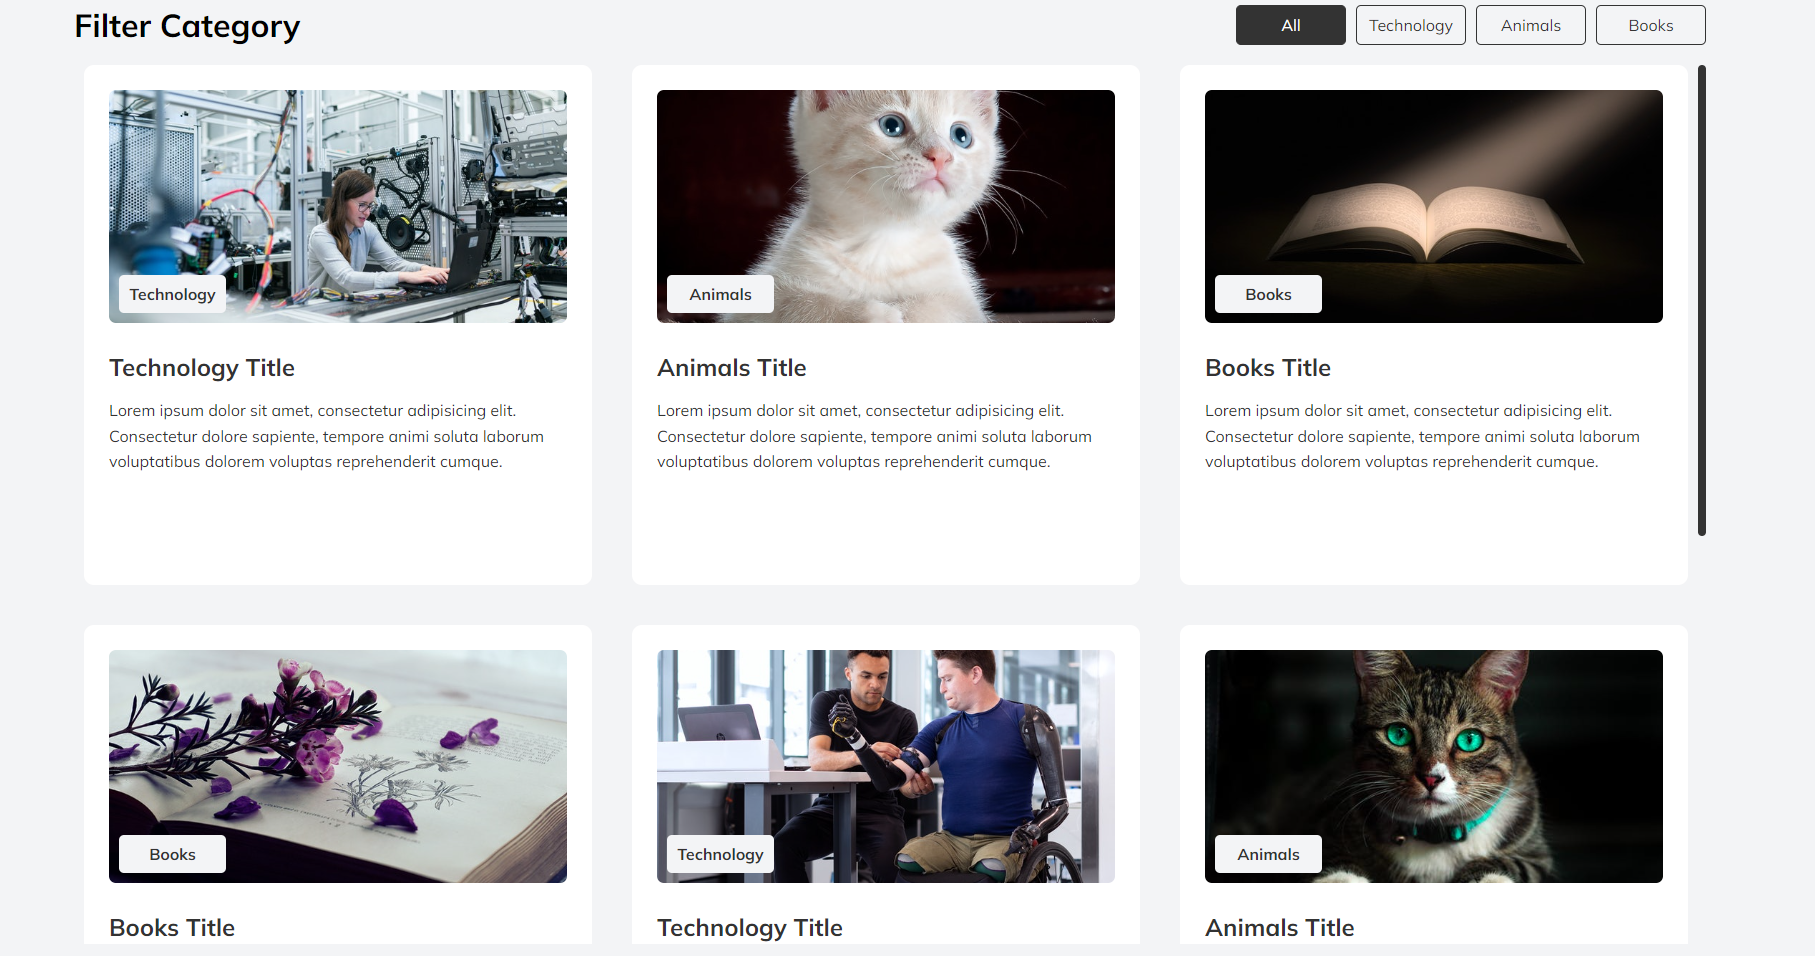
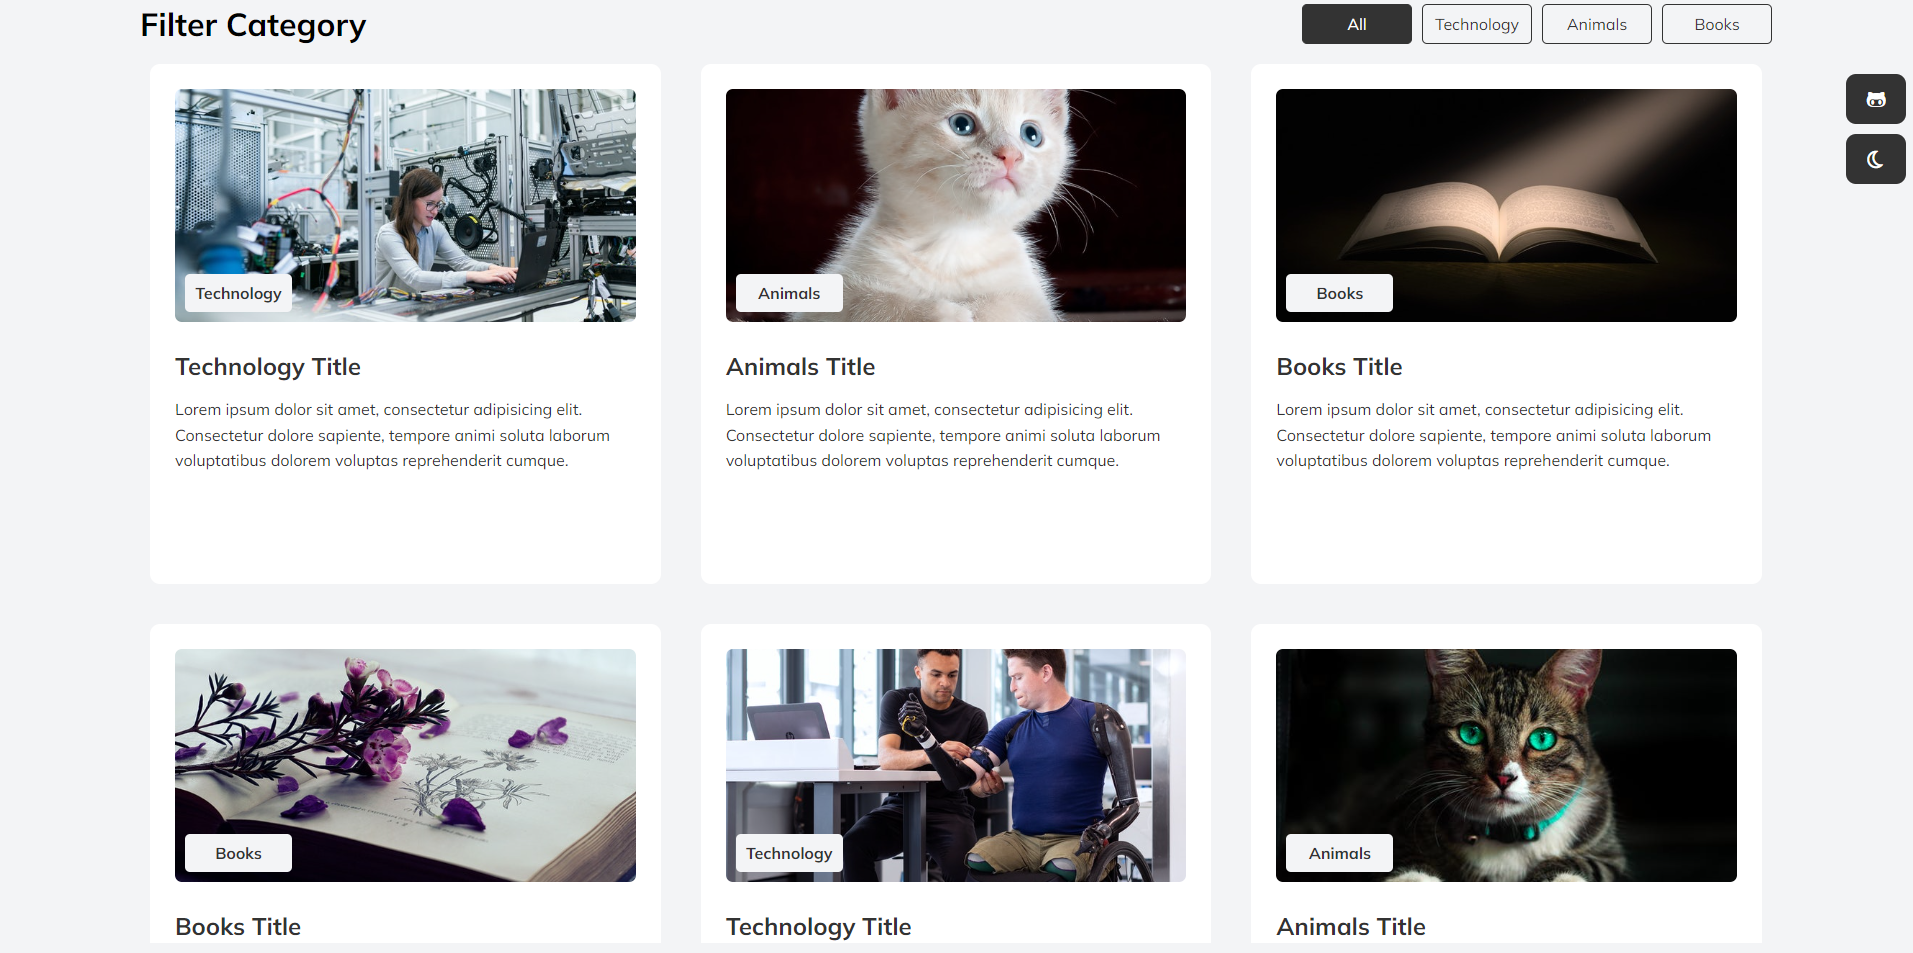
Upload readme images

diff --git a/Readme.md b/Readme.md
@@ -2,7 +2,8 @@
 
 Bu repo [Patika.Dev](https://www.patika.dev) Front-End Eğitiminde ödev olarak yapmış olduğum Javascript 3.ödev uygulaması.
 
-![lightTheme](images/light-theme.PNG)
+![lightTheme](images/light-theme.png)
+![darkTheme](images/dark-theme.png)
 
 ## Installation
 
